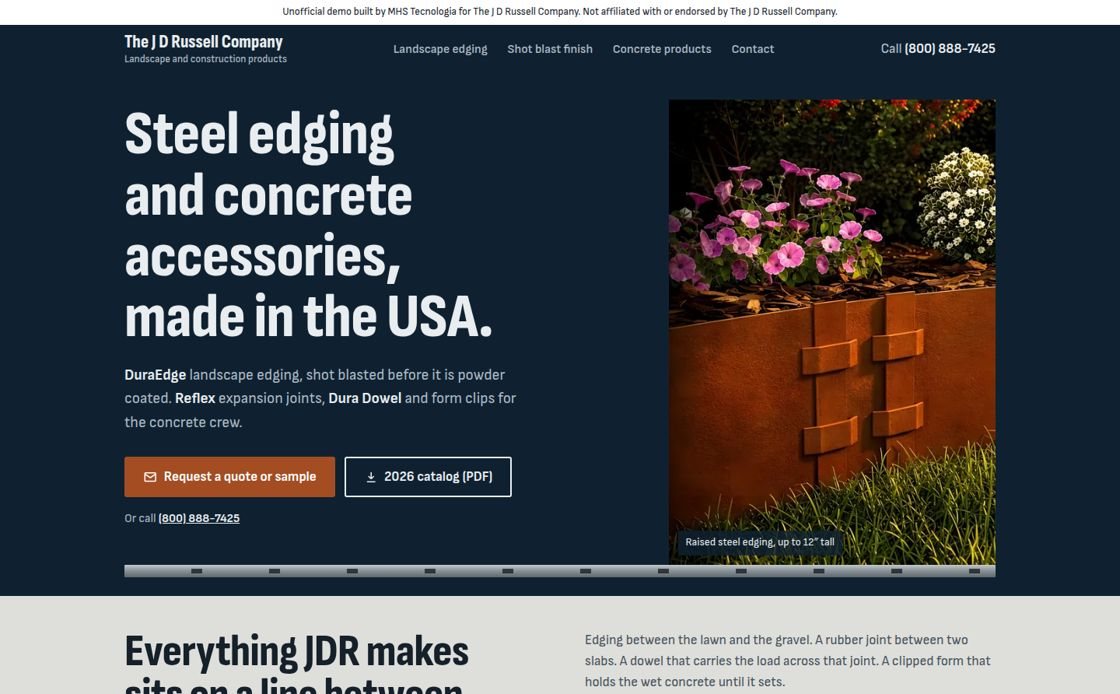
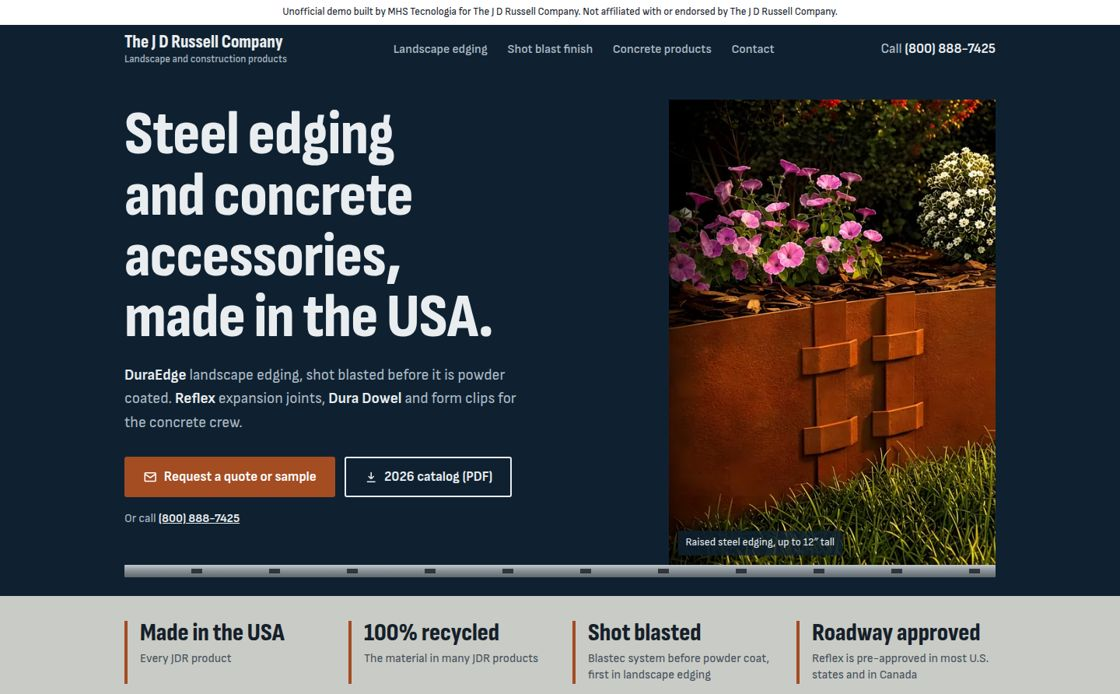
Previews: 9 ativos

Changed region(s): [[0.0938, 0.8775, 0.9062, 1.0]]

diff --git a/jd-russell-utica-mi/index.html b/jd-russell-utica-mi/index.html
@@ -152,9 +152,11 @@
   .blast-foot a { color: var(--on-night); font-weight: 700; }
 
   /* Concrete */
-  .wide { margin-top: 3rem; display: grid; grid-template-columns: minmax(0, 640px) minmax(0, 1fr); gap: 1rem 2rem; align-items: end; }
+  .wide { margin-top: 3rem; display: grid; grid-template-columns: minmax(0, 640px) minmax(0, 1fr); gap: 1rem 2rem; align-items: center; }
   .wide img { width: 100%; height: auto; aspect-ratio: 4 / 3; object-fit: cover; object-position: 50% 60%; border-radius: 2px; }
-  .wide figcaption { font-size: .95rem; color: var(--muted); max-width: 22rem; }
+  .wide figcaption { font-size: 1rem; color: var(--muted); max-width: 24rem; }
+  .wide-h { display: block; margin-bottom: .6rem; font: 800 1.7rem/1.05 "Sofia Sans Condensed", sans-serif; color: var(--ink); }
+  .wide figcaption a { color: var(--ink); font-weight: 700; }
   .tiles { display: grid; grid-template-columns: repeat(4, minmax(0, 1fr)); gap: 1.25rem; margin-top: 2.5rem; }
   .tile { background: #f1f1ee; border-bottom: 4px solid var(--steel); display: flex; flex-direction: column; }
   .tile img { width: 100%; aspect-ratio: 4 / 3; object-fit: cover; }
@@ -178,7 +180,7 @@
   .cols li span { display: block; font-size: .85rem; color: var(--muted); }
 
   /* Made in the USA */
-  .made { background: var(--slab); padding: 3rem 0; }
+  .made { background: var(--slab); padding: 2rem 0; }
   .proof { list-style: none; display: grid; grid-template-columns: repeat(4, minmax(0, 1fr)); gap: 1.5rem 2rem; }
   .proof li { border-left: 4px solid var(--rust); padding-left: 1rem; }
   .proof b { display: block; font: 800 clamp(1.5rem, 2.4vw, 2rem)/1 "Sofia Sans Condensed", sans-serif; }
@@ -316,6 +318,15 @@
     </div>
     <div class="hero-edge"><div class="edge"></div></div>
     <div class="hero-band" aria-hidden="true"></div>
+  </section>
+
+  <section class="made" aria-label="At a glance">
+    <ul class="wrap proof">
+      <li><b>Made in the USA</b><span>Every JDR product</span></li>
+      <li><b>100% recycled</b><span>The material in many JDR products</span></li>
+      <li><b>Shot blasted</b><span>Blastec system before powder coat, first in landscape edging</span></li>
+      <li><b>Roadway approved</b><span>Reflex is pre-approved in most U.S. states and in Canada</span></li>
+    </ul>
   </section>
 
   <section class="xs" aria-labelledby="xs-h">
@@ -485,19 +496,11 @@
 
       <figure class="wide">
         <img src="img/found-800.webp" srcset="img/found-800.webp 800w, img/found-1400.webp 1400w" sizes="(max-width: 860px) calc(100vw - 2rem), 640px" width="1400" height="911" alt="Formed concrete foundation walls on a residential job site, with framed houses behind" loading="lazy">
-        <figcaption>Foundation walls formed on a residential job site.</figcaption>
+        <figcaption><b class="wide-h">Need the details on any of these?</b>Download the <a href="https://www.jdrussellco.com/wp-content/uploads/JDR-Master-Catalog-5_2026SM-1.pdf">2026 master catalog (PDF)</a>, or <a href="#contact">ask for a quote or sample</a>.<span style="display:block;margin-top:.8rem;font-size:.9rem">Photo: foundation walls formed on a residential job site.</span></figcaption>
       </figure>
     </div>
   </section>
 
-  <section class="made" aria-label="At a glance">
-    <ul class="wrap proof">
-      <li><b>Made in the USA</b><span>Every JDR product</span></li>
-      <li><b>100% recycled</b><span>The material in many JDR products</span></li>
-      <li><b>Shot blasted</b><span>Blastec system before powder coat, first in landscape edging</span></li>
-      <li><b>Roadway pre-approved</b><span>Reflex, in most U.S. states and in Canada</span></li>
-    </ul>
-  </section>
 
   <section class="sec contact" id="contact" aria-labelledby="contact-h">
     <div class="wrap contact-grid">
